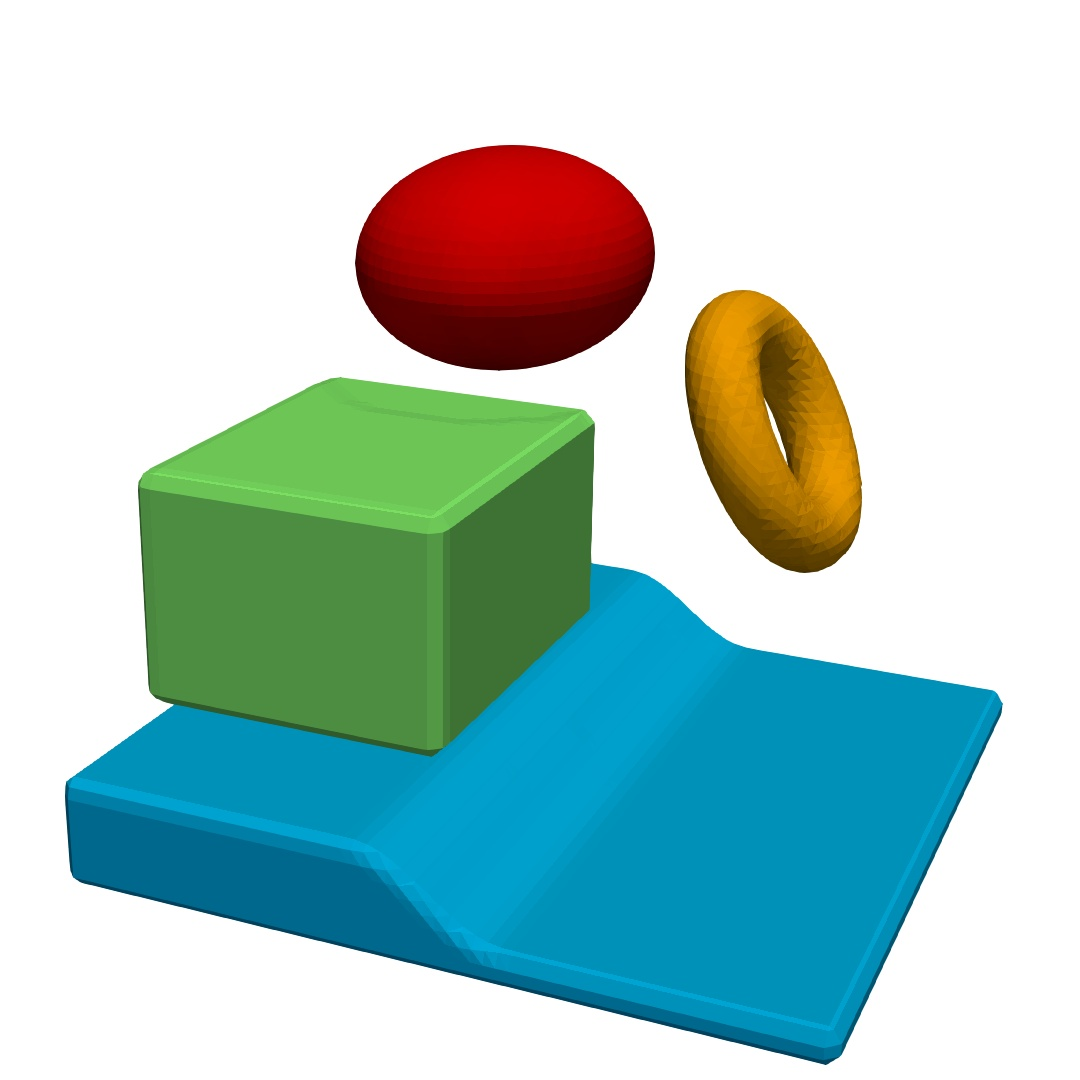
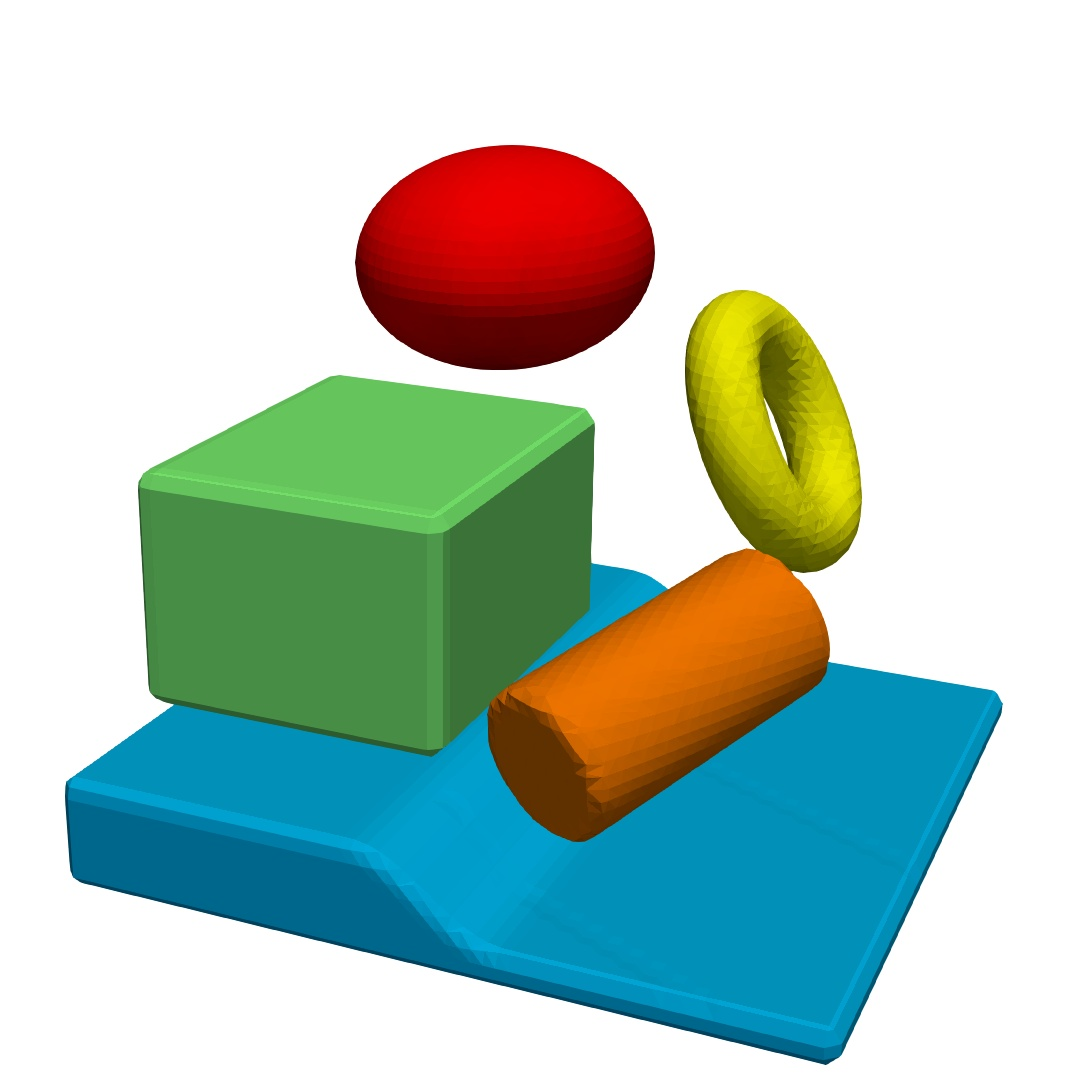
primlist: all level-sets return distance

Changed region(s): [[0.4278, 0.2444, 0.7944, 0.7944], [0.3667, 0.1222, 0.5806, 0.2444], [0.3972, 0.3361, 0.4278, 0.3667]]

diff --git a/src/func/primlist.h b/src/func/primlist.h
@@ -66,7 +66,7 @@ struct UPrimList {
       if (edim == 2) {
         xd[2] = 0.;
       }
-      return (1. - xd.sqrnorm()) * sqr(r.min());
+      return (1 - xd.norm()) * r.min();
     };
 
     p.inter = [xc, r](const Rect<Vect>& rect) -> bool {
@@ -90,7 +90,7 @@ struct UPrimList {
       const Vect dx = x - xc;
       const Scal xn = dx.dot(n);
       const Scal xt = (dx - n * xn).norm();
-      return sqr(th) - (sqr(xn) + sqr(xt - r));
+      return th - std::sqrt(sqr(xn) + sqr(xt - r));
     };
     return true;
   }
@@ -110,7 +110,7 @@ struct UPrimList {
       if (edim == 2) {
         dx[2] = 0.;
       }
-      return 1. - dx.abs().max();
+      return (1 - dx.abs().max()) * r.min();
     };
     return true;
   }
@@ -140,7 +140,7 @@ struct UPrimList {
       const Scal dn = n.dot(dx) / ln;
       const Scal dt = t.dot(dx) / lt;
       const Scal q = dt < -1 ? 1 : dt > 1 ? -1 : -std::sin(M_PI * 0.5 * dt);
-      return q - dn;
+      return (q - dn) * lt;
     };
     return true;
   }

diff --git a/doc/sphinx/src/primlist.rst b/doc/sphinx/src/primlist.rst
@@ -8,7 +8,7 @@ for a list of geometric primitives such as spheres and boxes.
 A primitive is described by
 
 .. includecode:: src/func/primlist.h
-  :struct: GPrimitive
+  :struct: Primitive
 
 Function ``Parse()`` parses a stream with a list of primitives.
 
